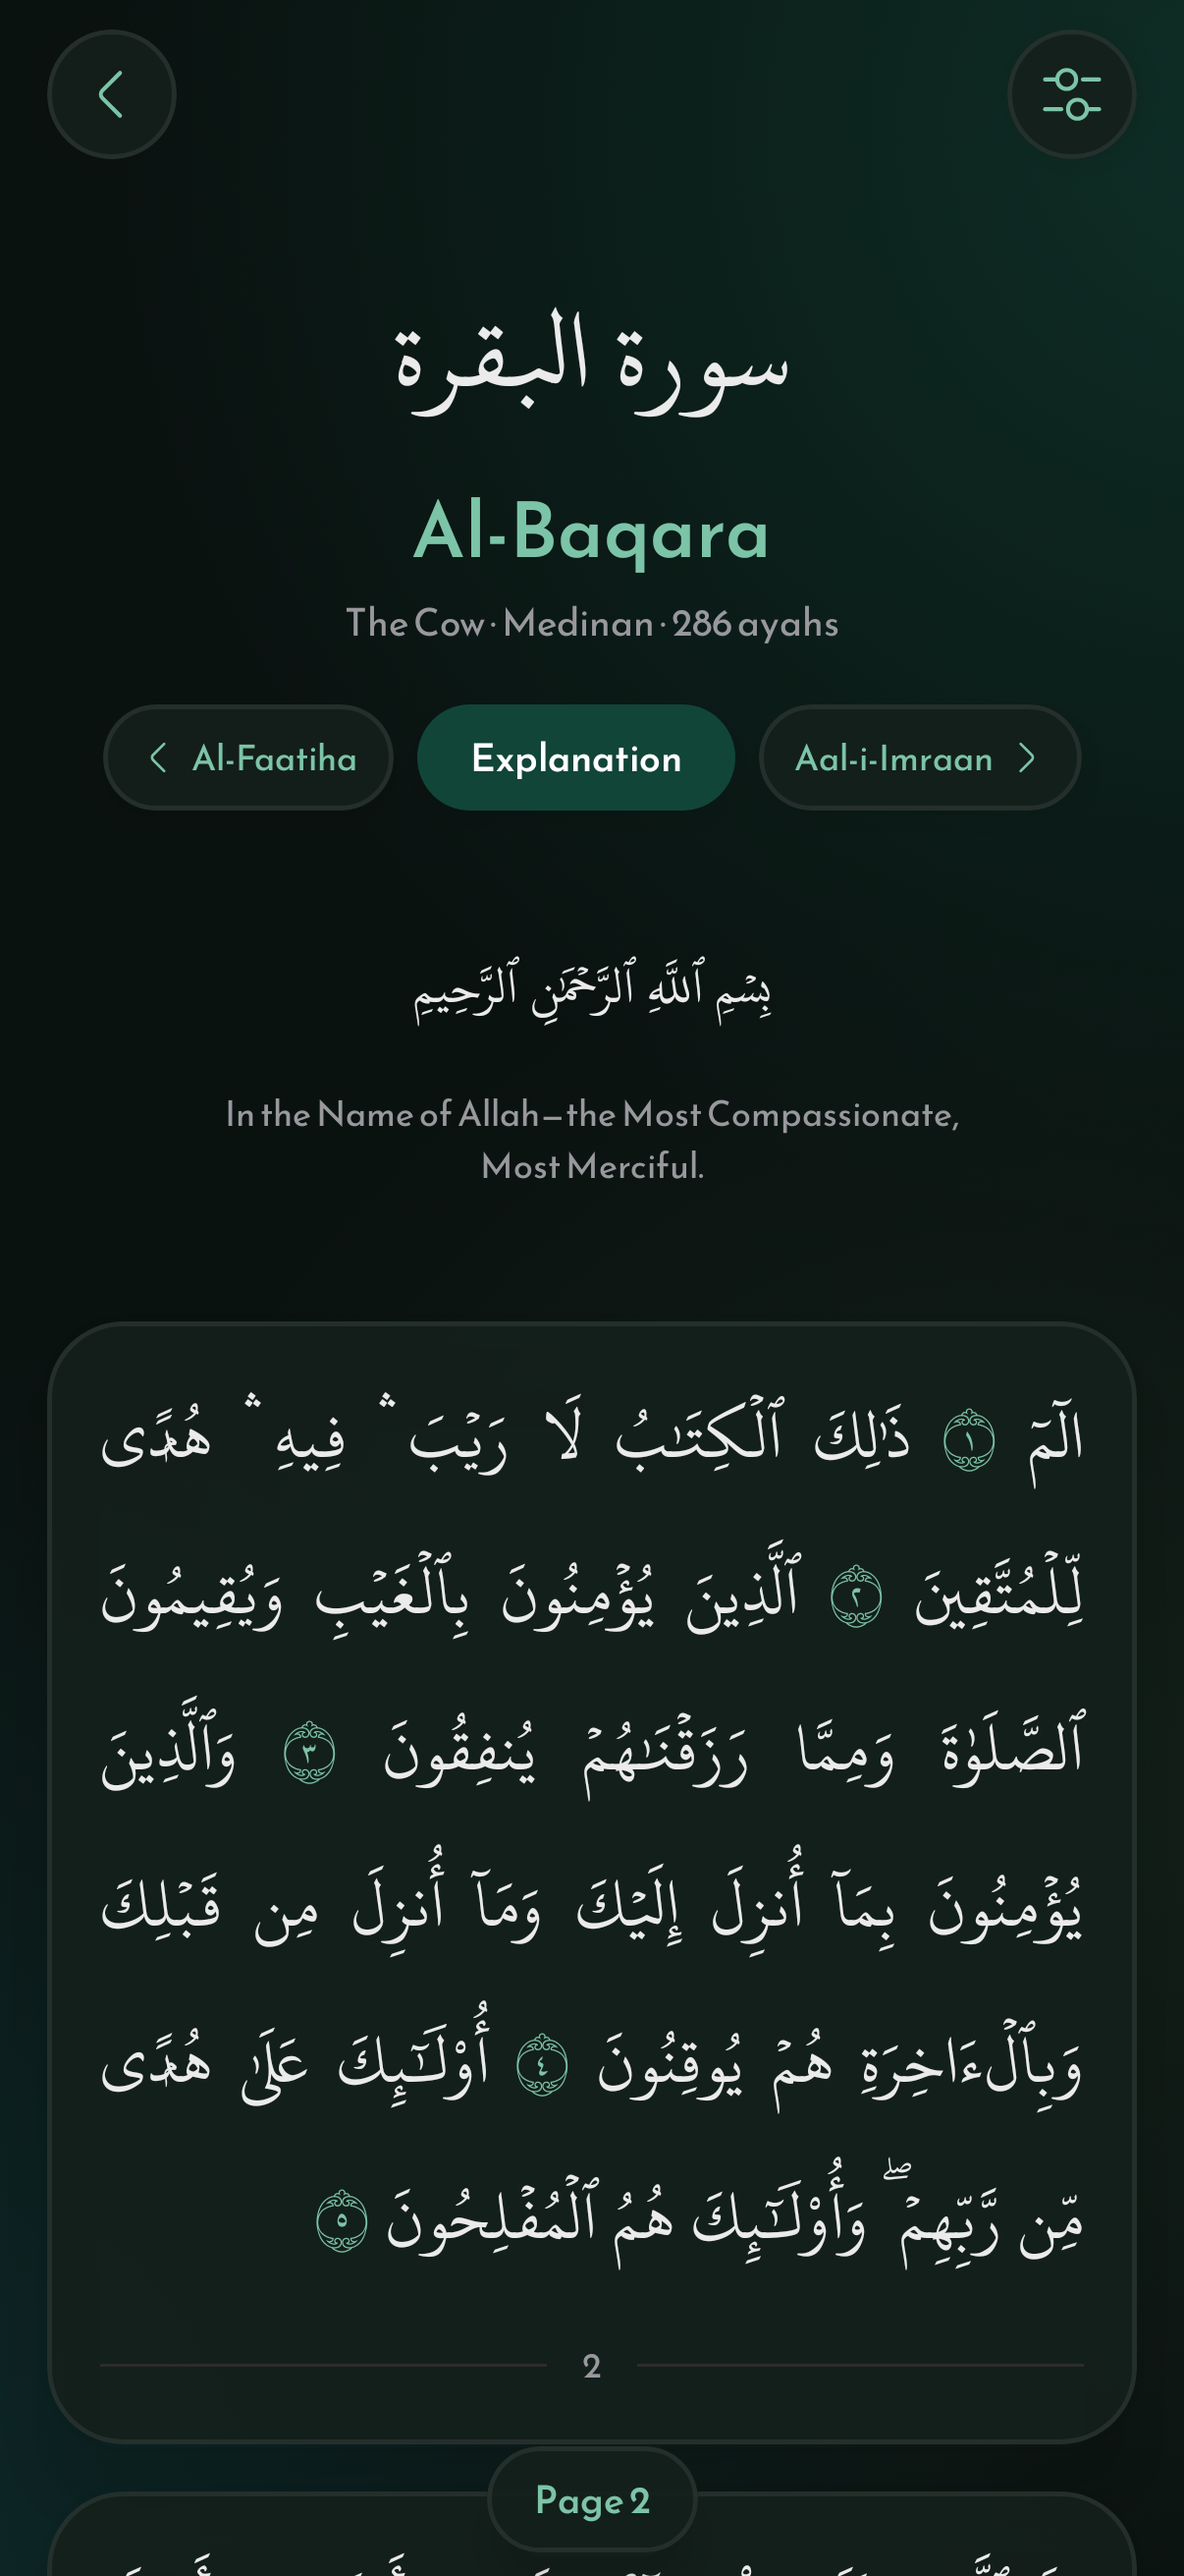
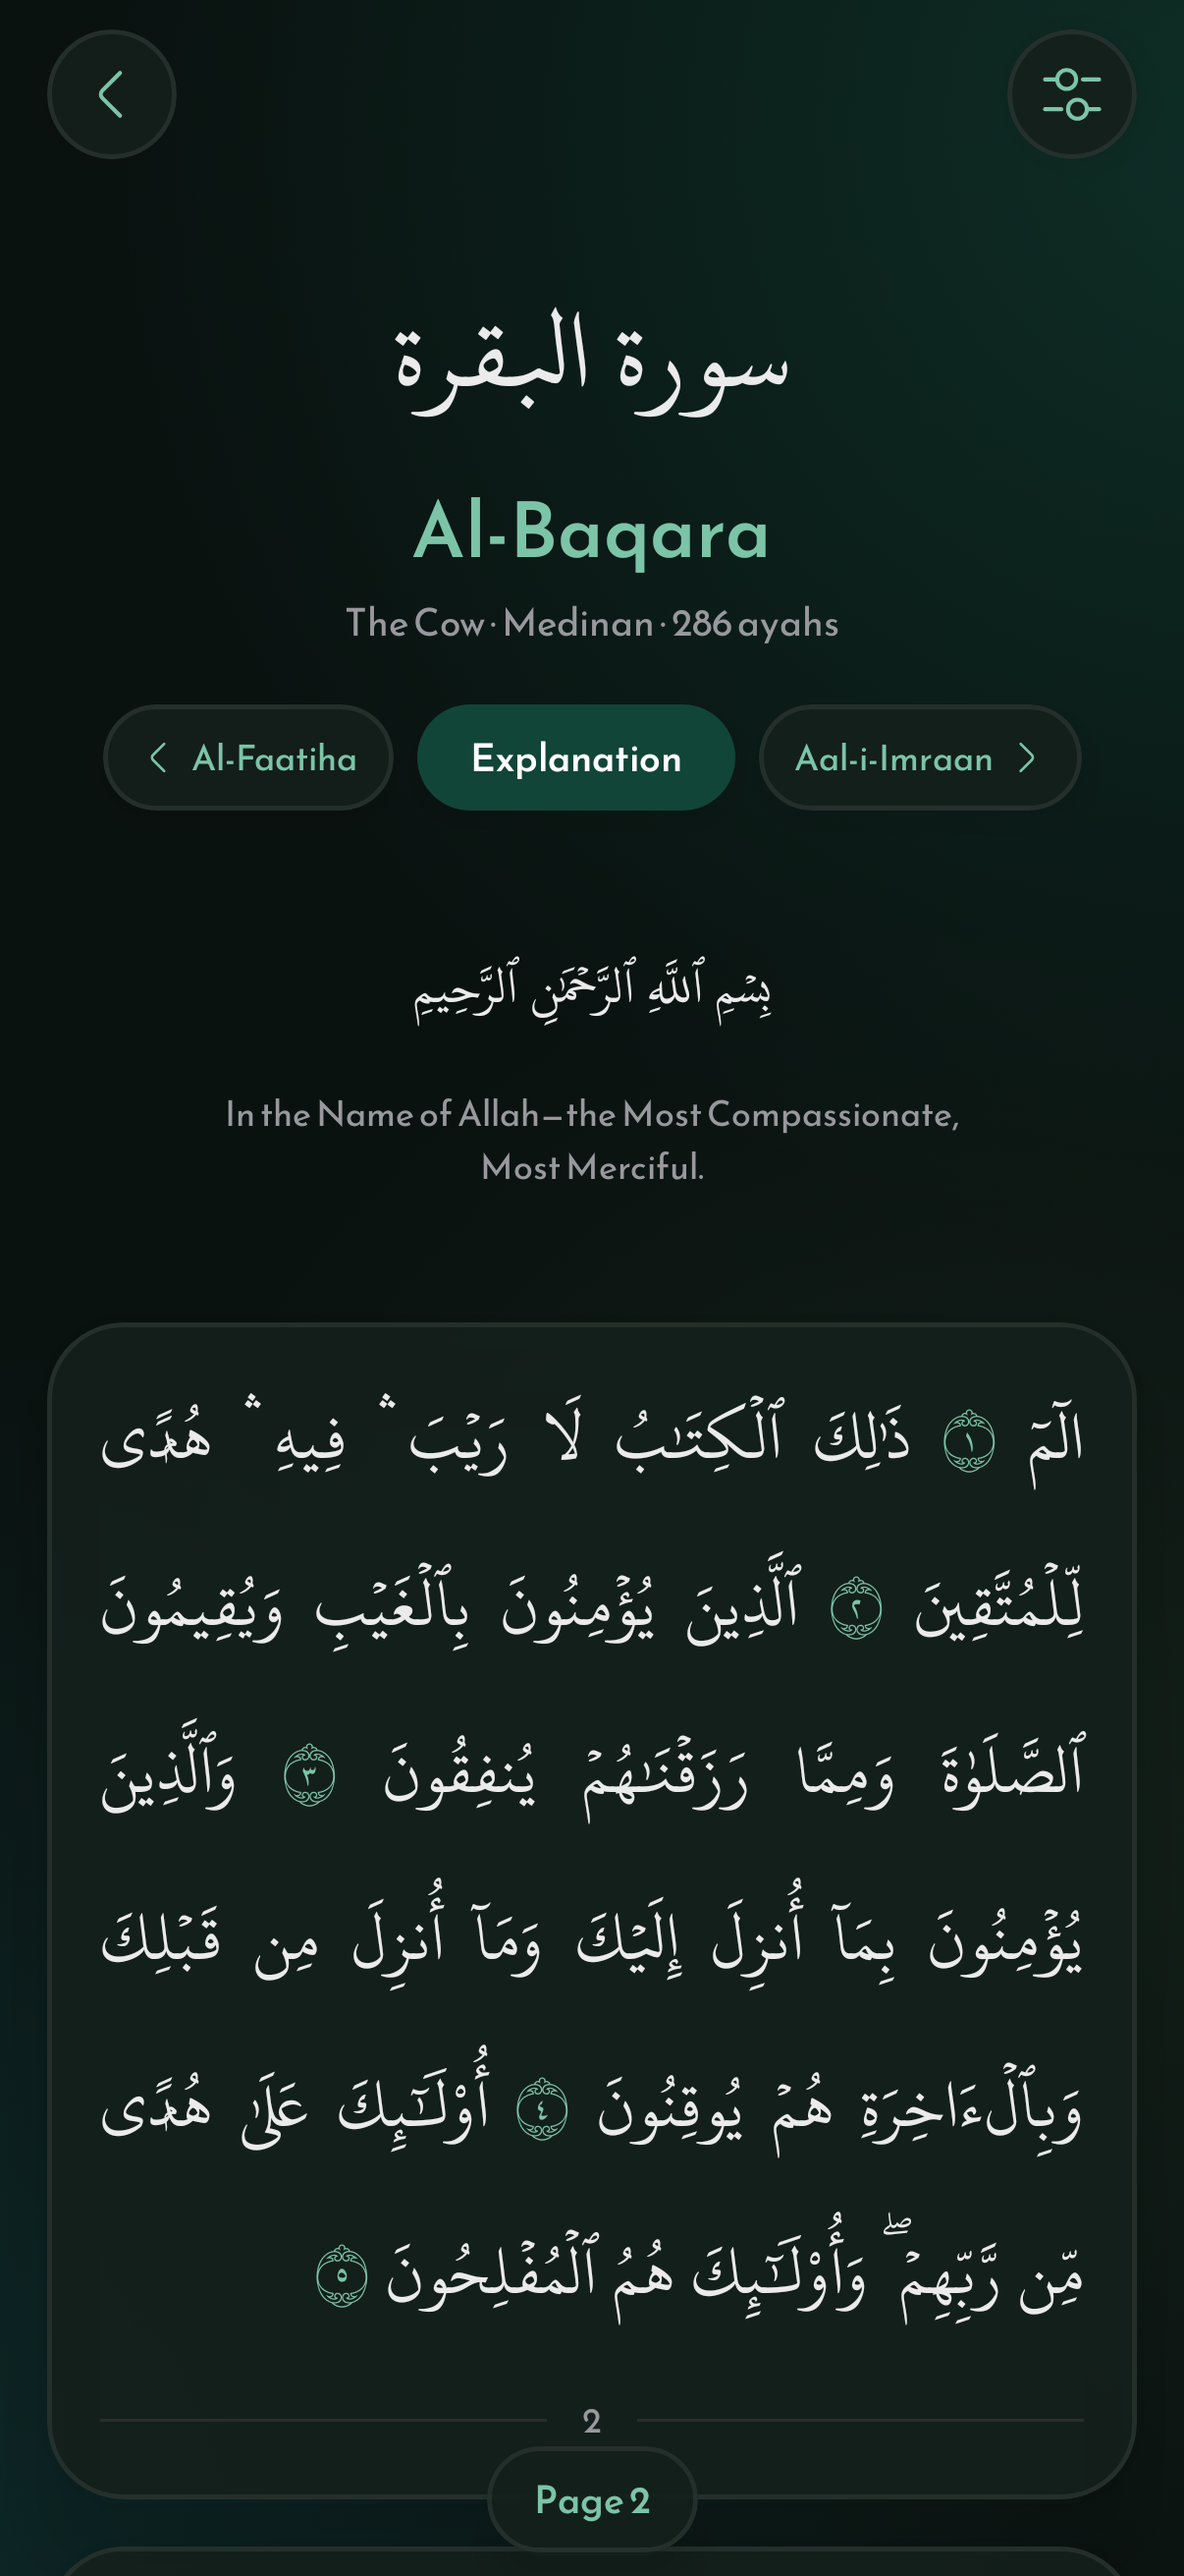
fix(quran): Android Quran text spaced as on iOS
Uses the design system's line spacing (0 where the iOS view sets none, 0.6
of the font size on Mushaf pages) and ArabicText and TranslationText for the
transliteration, translations and tafsir, and re-records the screenshots.

diff --git a/androidApp/src/main/kotlin/com/muttaqi/android/feature/quran/SurahReaderScreen.kt b/androidApp/src/main/kotlin/com/muttaqi/android/feature/quran/SurahReaderScreen.kt
@@ -34,7 +34,8 @@ import androidx.compose.material3.MaterialTheme
 import androidx.compose.material3.ModalBottomSheet
 import androidx.compose.material3.Scaffold
 import androidx.compose.material3.Text
-import androidx.compose.material3.rememberModalBottomSheetState
+import androidx.compose.material3.SheetValue
+import androidx.compose.material3.rememberBottomSheetState
 import androidx.compose.runtime.Composable
 import androidx.compose.runtime.DisposableEffect
 import androidx.compose.runtime.LaunchedEffect
@@ -55,6 +56,7 @@ import androidx.compose.ui.text.SpanStyle
 import androidx.compose.ui.text.TextStyle
 import androidx.compose.ui.text.buildAnnotatedString
 import androidx.compose.ui.text.font.FontWeight
+import androidx.compose.ui.text.style.LineHeightStyle
 import androidx.compose.ui.text.style.TextAlign
 import androidx.compose.ui.text.style.TextDirection
 import androidx.compose.ui.text.style.TextOverflow
@@ -161,7 +163,8 @@ fun SurahReaderRoute(surahNumber: Int, startAyah: Int, onShare: (SharePassage) -
     tafsirStart?.let { start ->
         ModalBottomSheet(
             onDismissRequest = { tafsirStart = null },
-            sheetState = rememberModalBottomSheetState(skipPartiallyExpanded = true),
+            // Opens straight to full height, like the iOS sheet's large detent
+            sheetState = rememberBottomSheetState(SheetValue.Hidden, setOf(SheetValue.Hidden, SheetValue.Expanded)),
             containerColor = MuttaqiTheme.soft.canvas,
         ) {
             TafsirContent(
@@ -332,7 +335,7 @@ private fun SurahHeader(surah: Surah?, previous: Surah?, next: Surah?, onIntent:
     val soft = MuttaqiTheme.soft
     Column(Modifier.fillMaxWidth().padding(top = 20.dp), horizontalAlignment = Alignment.CenterHorizontally) {
         if (surah != null) {
-            ArabicText(surah.name, fontSize = 40.sp)
+            ArabicText(surah.name, fontSize = 40.sp, lineSpacing = 0.sp)
         }
         Text(
             surah?.englishName.orEmpty(),
@@ -380,13 +383,14 @@ private fun Bismillah(text: String, translation: String) {
     val soft = MuttaqiTheme.soft
     val english = !translation.isArabicScript() && translation.none { it.code in 0x0900..0x097F }
     Column(Modifier.fillMaxWidth(), horizontalAlignment = Alignment.CenterHorizontally) {
-        ArabicText(text, Modifier.padding(top = 44.dp), fontSize = 18.sp)
+        ArabicText(text, Modifier.padding(top = 44.dp), fontSize = 18.sp, lineSpacing = 0.sp)
         TranslationText(
             translation,
             Modifier.padding(top = 18.dp, bottom = 20.dp).padding(horizontal = if (english) 60.dp else 16.dp),
             fontSize = if (english) 12.sp else 13.sp,
             color = soft.textSecondary,
             maxLines = if (english) Int.MAX_VALUE else 1,
+            lineSpacing = 0.sp,
         )
     }
 }
@@ -416,23 +420,33 @@ fun AyahCard(
         Column(Modifier.fillMaxWidth().padding(18.dp)) {
             AyahArabic(ayah, fontSize)
             ayah.transliteration?.takeIf { it.isNotEmpty() }?.let {
-                Text(
+                TranslationText(
                     it,
-                    Modifier.padding(top = 12.dp),
-                    style = MaterialTheme.typography.bodyLarge.copy(fontSize = fontSize.transliterationSize.sp, lineHeight = 1.4.em),
+                    Modifier.fillMaxWidth().padding(top = 12.dp),
+                    fontSize = fontSize.transliterationSize.sp,
                     color = soft.appPrimary,
+                    textAlign = TextAlign.Left,
+                    lineSpacing = 0.sp,
                 )
             }
             ayah.translation?.takeIf { it.isNotEmpty() }?.let { translation ->
                 if (language == Language.Urdu) {
                     // Right, not End: in a right-to-left paragraph End is the left edge
-                    TranslationText(translation, Modifier.fillMaxWidth().padding(top = 8.dp), fontSize = (fontSize.translationSize - 1).sp, textAlign = TextAlign.Right)
+                    // Nastaliq at the translation size itself, as on iOS, where TranslationText would add a point
+                    TranslationText(
+                        translation,
+                        Modifier.fillMaxWidth().padding(top = 8.dp),
+                        fontSize = (fontSize.translationSize - 1).sp,
+                        textAlign = TextAlign.Right,
+                        lineSpacing = 0.sp,
+                    )
                 } else {
-                    Text(
+                    TranslationText(
                         "${ayah.numberInSurah}.  $translation",
-                        Modifier.padding(top = 8.dp),
-                        style = MaterialTheme.typography.bodyLarge.copy(fontSize = fontSize.translationSize.sp, lineHeight = 1.4.em),
-                        color = soft.textPrimary,
+                        Modifier.fillMaxWidth().padding(top = 8.dp),
+                        fontSize = fontSize.translationSize.sp,
+                        textAlign = TextAlign.Left,
+                        lineSpacing = 0.sp,
                     )
                 }
             }
@@ -479,7 +493,7 @@ private fun AyahArabic(ayah: Ayah, fontSize: FontSize) {
         Modifier.fillMaxWidth().padding(top = 6.dp),
         color = soft.textPrimary,
         textAlign = TextAlign.Right,
-        style = TextStyle(fontFamily = QuranFont, fontSize = fontSize.arabicSize.sp, lineHeight = 1.9.em, textDirection = TextDirection.Rtl),
+        style = TextStyle(fontFamily = QuranFont, fontSize = fontSize.arabicSize.sp, textDirection = TextDirection.Rtl),
     )
 }
 
@@ -511,7 +525,9 @@ fun MushafPageCard(page: MushafPage, fontSize: FontSize) {
                 style = TextStyle(
                     fontFamily = QuranFont,
                     fontSize = fontSize.arabicSize.sp,
-                    lineHeight = 2.2.em,
+                    // The font's own line height and then, as iOS spaces the page, 0.6 of the font size
+                    lineHeight = (QURAN_FONT_LINE_HEIGHT + MUSHAF_LINE_SPACING).em,
+                    lineHeightStyle = LineHeightStyle(LineHeightStyle.Alignment.Top, LineHeightStyle.Trim.Both),
                     textAlign = TextAlign.Justify,
                     textDirection = TextDirection.Rtl,
                 ),
@@ -529,6 +545,10 @@ fun MushafPageCard(page: MushafPage, fontSize: FontSize) {
 internal fun Hairline(modifier: Modifier = Modifier) {
     Box(modifier.height(1.dp).background(if (MuttaqiTheme.soft.dark) Color(0xFF2C2C2E) else Color(0xFFE5E5EA)))
 }
+
+// The Quran font's line height in ems (its ascender plus descender), as the design system's ArabicText lays it out
+private const val QURAN_FONT_LINE_HEIGHT = 1.758f
+private const val MUSHAF_LINE_SPACING = 0.6f
 
 private fun arabicIndicDigits(number: Int): String = number.toString().map { (0x0660 + (it - '0')).toChar() }.joinToString("")
 

diff --git a/androidApp/src/main/kotlin/com/muttaqi/android/feature/quran/TafsirSheet.kt b/androidApp/src/main/kotlin/com/muttaqi/android/feature/quran/TafsirSheet.kt
@@ -17,20 +17,16 @@ import androidx.compose.runtime.remember
 import androidx.compose.ui.Alignment
 import androidx.compose.ui.Modifier
 import androidx.compose.ui.text.SpanStyle
-import androidx.compose.ui.text.TextStyle
 import androidx.compose.ui.text.buildAnnotatedString
 import androidx.compose.ui.text.font.FontFamily
 import androidx.compose.ui.text.style.TextAlign
-import androidx.compose.ui.text.style.TextDirection
 import androidx.compose.ui.text.withStyle
 import androidx.compose.ui.unit.dp
-import androidx.compose.ui.unit.em
 import androidx.compose.ui.unit.sp
 import com.muttaqi.android.designsystem.MuttaqiTheme
-import com.muttaqi.android.designsystem.NastaliqFont
-import com.muttaqi.android.designsystem.QuranFont
+import com.muttaqi.android.designsystem.component.ArabicText
+import com.muttaqi.android.designsystem.component.TranslationText
 import com.muttaqi.shared.core.model.Language
-import com.muttaqi.shared.core.text.kfgqpcEncoded
 import com.muttaqi.shared.feature.quran.domain.model.Surah
 import com.muttaqi.shared.feature.quran.domain.model.TafsirEntry
 import com.muttaqi.shared.feature.quran.presentation.tafsir.TafsirState
@@ -106,28 +102,16 @@ private fun TafsirEntries(entries: List<TafsirEntry>, language: Language, start:
 private fun TafsirParagraph(paragraph: String, language: Language) {
     val soft = MuttaqiTheme.soft
     when {
-        language == Language.Urdu -> Text(
-            paragraph,
-            Modifier.fillMaxWidth(),
-            color = soft.textPrimary,
-            textAlign = TextAlign.Right,
-            style = TextStyle(fontFamily = NastaliqFont, fontSize = 17.sp, lineHeight = 2.1.em, textDirection = TextDirection.Rtl),
-        )
-        startsWithArabic(paragraph) -> {
-            // The Quran font draws Arabic punctuation as a dotted circle, so those marks use the system font
-            val text = remember(paragraph) { restyled(paragraph.kfgqpcEncoded(), setOf('،', '؟', '؛'), SpanStyle(fontFamily = FontFamily.Default, fontSize = 17.sp)) }
-            Text(
-                text,
-                Modifier.fillMaxWidth(),
-                color = soft.textPrimary,
-                textAlign = TextAlign.Right,
-                style = TextStyle(fontFamily = QuranFont, fontSize = 20.sp, lineHeight = 1.9.em, textDirection = TextDirection.Rtl),
-            )
-        }
+        // Nastaliq at 17, as on iOS, where TranslationText would add a point
+        language == Language.Urdu ->
+            TranslationText(paragraph, Modifier.fillMaxWidth(), fontSize = 16.sp, textAlign = TextAlign.Right, lineSpacing = 0.sp)
+        // ArabicText sets the Arabic punctuation the Quran font can't draw in the system font
+        startsWithArabic(paragraph) ->
+            ArabicText(paragraph, Modifier.fillMaxWidth(), fontSize = 20.sp, textAlign = TextAlign.Right, lineSpacing = 0.sp)
         else -> {
             // ﷺ is taller than a line of body text and would overlap the lines around it, so it's drawn smaller
             val text = remember(paragraph) { restyled(paragraph, setOf('ﷺ'), SpanStyle(fontFamily = FontFamily.Default, fontSize = 9.sp)) }
-            Text(text, style = MaterialTheme.typography.bodySmall.copy(lineHeight = 1.45.em), color = soft.textPrimary)
+            Text(text, style = MaterialTheme.typography.bodySmall, color = soft.textPrimary)
         }
     }
 }

diff --git a/androidApp/src/main/kotlin/com/muttaqi/android/feature/quran/ReadingSettingsSheet.kt b/androidApp/src/main/kotlin/com/muttaqi/android/feature/quran/ReadingSettingsSheet.kt
@@ -106,11 +106,11 @@ private fun ReadingModeCard(
         ) {
             when (mode) {
                 ReadingMode.WithTranslation -> Column(horizontalAlignment = Alignment.CenterHorizontally, verticalArrangement = Arrangement.spacedBy(4.dp)) {
-                    ArabicText("بِسْمِ ٱللَّهِ", fontSize = 12.sp)
+                    ArabicText("بِسْمِ ٱللَّهِ", fontSize = 12.sp, lineSpacing = 0.sp)
                     Text("Bismillaahir", fontSize = 8.sp, fontFamily = FontFamily.Default, color = soft.appPrimary)
                     Text("In the Name of Allah", fontSize = 7.sp, fontFamily = FontFamily.Default, color = soft.textSecondary)
                     Box(Modifier.padding(horizontal = 12.dp).fillMaxWidth().height(0.5.dp).background(systemGray4()))
-                    ArabicText("ٱلْحَمْدُ لِلَّهِ", fontSize = 12.sp)
+                    ArabicText("ٱلْحَمْدُ لِلَّهِ", fontSize = 12.sp, lineSpacing = 0.sp)
                     Text("Alhamdu lillaahi", fontSize = 8.sp, fontFamily = FontFamily.Default, color = soft.appPrimary)
                 }
                 ReadingMode.ArabicOnly -> ArabicText(
@@ -118,6 +118,7 @@ private fun ReadingModeCard(
                     Modifier.padding(horizontal = 8.dp),
                     fontSize = 11.sp,
                     textAlign = TextAlign.Right,
+                    lineSpacing = 0.sp,
                 )
             }
         }

diff --git a/androidApp/src/main/kotlin/com/muttaqi/android/feature/quran/QuranListScreen.kt b/androidApp/src/main/kotlin/com/muttaqi/android/feature/quran/QuranListScreen.kt
@@ -166,7 +166,7 @@ private fun ContinueReadingCard(progress: ReadingProgress, onContinue: () -> Uni
                     Text("Ayah ${progress.lastAyahNumber}", style = MaterialTheme.typography.bodySmall, color = Color.White.copy(alpha = 0.8f))
                 }
                 Spacer(Modifier.width(8.dp))
-                ArabicText(progress.surahName, fontSize = 30.sp, color = Color.White)
+                ArabicText(progress.surahName, fontSize = 30.sp, color = Color.White, lineSpacing = 0.sp, maxLines = 1)
             }
             SoftPillSurface(Modifier.padding(top = 16.dp).height(38.dp), fill = Color.White, rim = false) {
                 Text(
@@ -191,7 +191,7 @@ fun SurahCard(surah: Surah, modifier: Modifier = Modifier, onClick: () -> Unit) 
                     Text("${surah.number}", style = MaterialTheme.typography.labelLarge.copy(fontSize = 13.sp), color = soft.appPrimary)
                 }
                 Spacer(Modifier.weight(1f).width(6.dp))
-                ArabicText(surah.name, fontSize = 18.sp, textAlign = TextAlign.Right)
+                ArabicText(surah.name, fontSize = 18.sp, textAlign = TextAlign.Right, lineSpacing = 0.sp, maxLines = 1)
             }
             Text(
                 surah.englishName,
